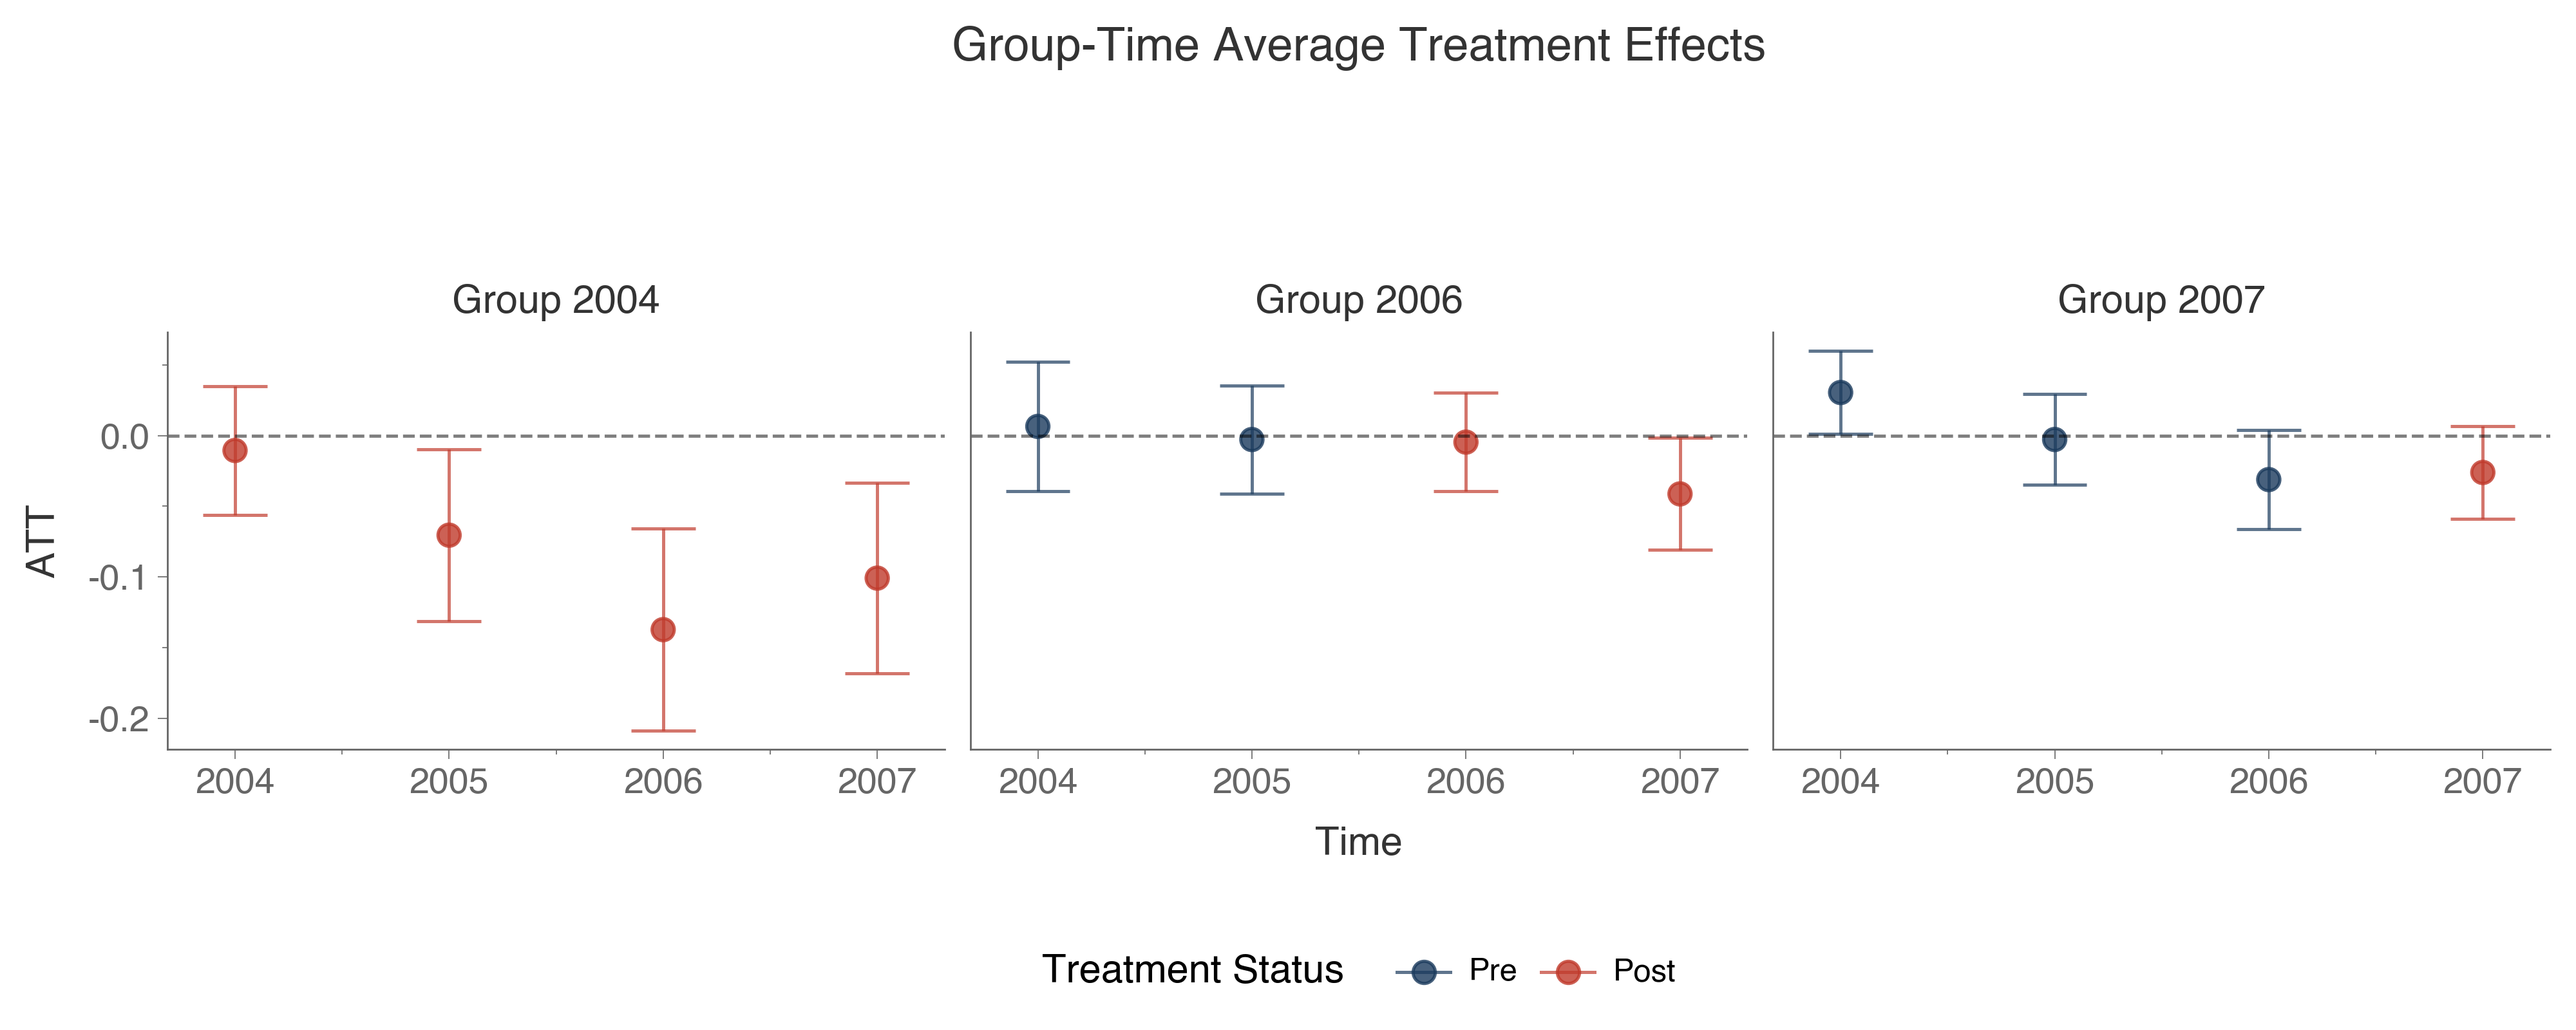
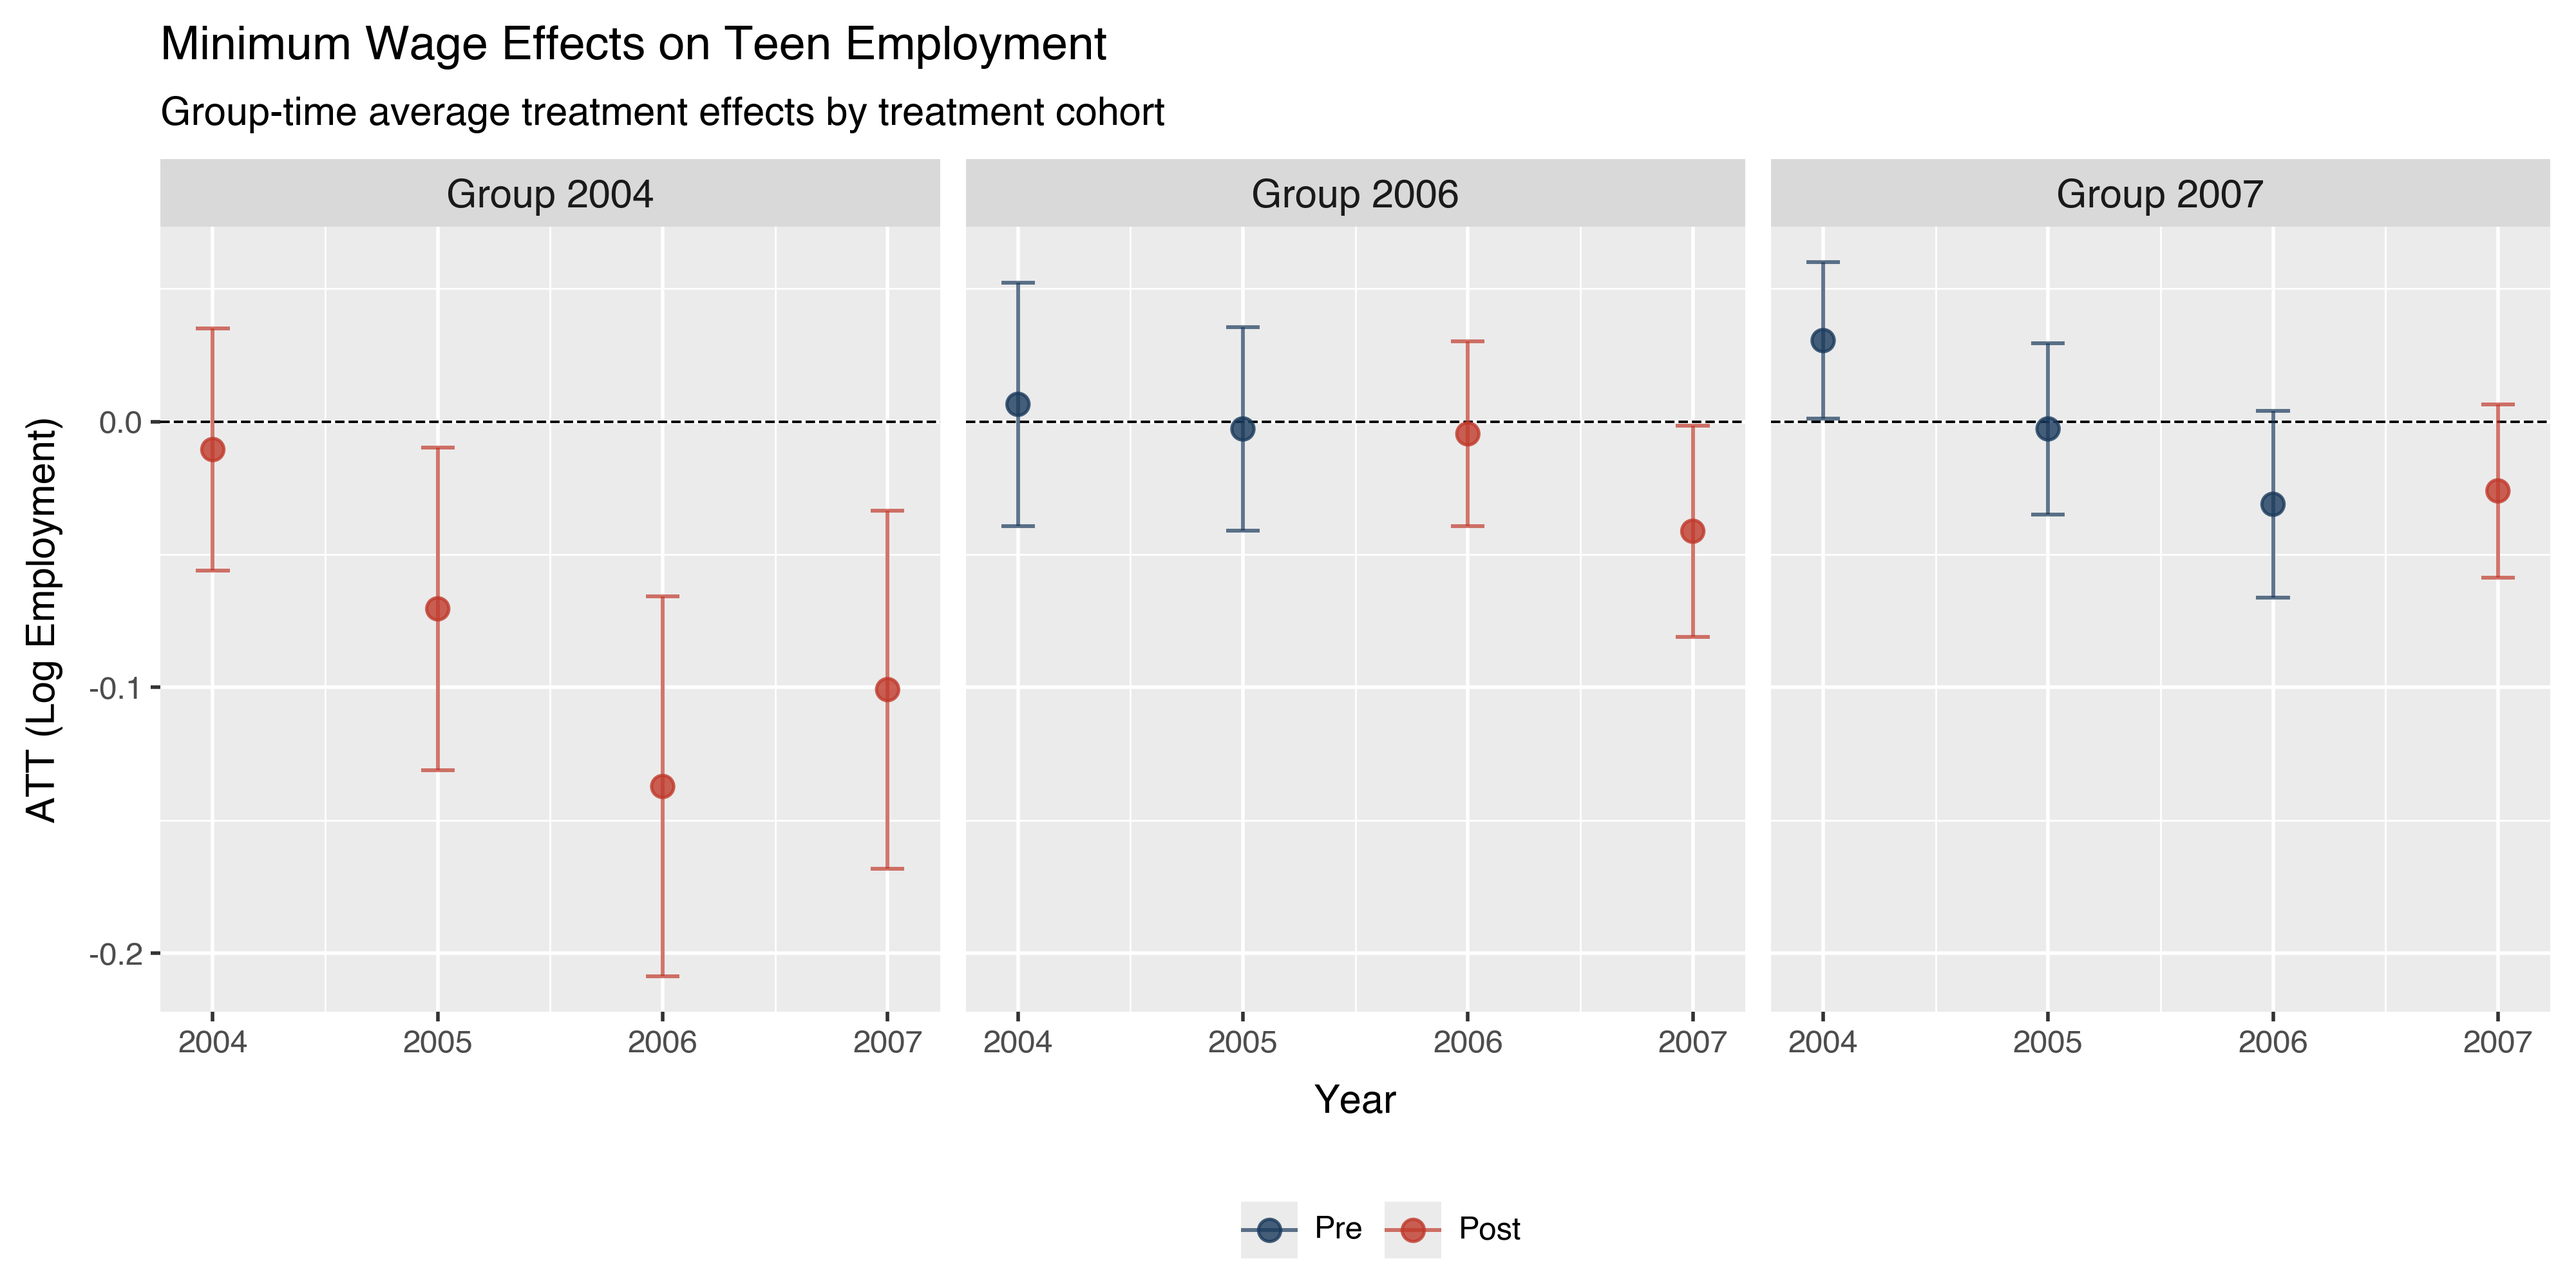
DOC: update images

diff --git a/README.md b/README.md
@@ -1,5 +1,5 @@
-<img src="https://raw.githubusercontent.com/jordandeklerk/moderndid/main/docs/source/_static/moderndid-light.png#gh-light-mode-only" width="250" align="left" alt="moderndid logo"></img>
-<img src="https://raw.githubusercontent.com/jordandeklerk/moderndid/main/docs/source/_static/moderndid-dark.png#gh-dark-mode-only" width="250" align="left" alt="moderndid logo"></img>
+<img src="https://raw.githubusercontent.com/jordandeklerk/moderndid/readme/docs/source/_static/moderndid-light.png#gh-light-mode-only" width="250" align="left" alt="moderndid logo"></img>
+<img src="https://raw.githubusercontent.com/jordandeklerk/moderndid/readme/docs/source/_static/moderndid-dark.png#gh-dark-mode-only" width="250" align="left" alt="moderndid logo"></img>
 
 [![License](https://img.shields.io/badge/License-MIT-green.svg)](https://opensource.org/license/mit)
 [![PyPI -Version](https://img.shields.io/pypi/v/moderndid.svg)](https://pypi.org/project/moderndid/)
@@ -271,7 +271,7 @@ We can plot these results using the `plot_gt()` functionality:
 did.plot_gt(attgt_result)
 ```
 
-<img src="https://raw.githubusercontent.com/jordandeklerk/moderndid/main/docs/source/_static/att.png" alt="ATT plot">
+<img src="https://raw.githubusercontent.com/jordandeklerk/moderndid/readme/docs/source/_static/att.png" alt="ATT plot">
 
 While group-time effects are useful, they can be difficult to summarize when there are many groups and time periods. The `aggte` function aggregates these into more interpretable summaries. Setting `type="dynamic"` produces an event study that shows how effects evolve relative to treatment timing:
 
@@ -333,13 +333,9 @@ print(event_study)
 
 Event time 0 is the period of first treatment, e.g., the on-impact effect, negative event times are pre-treatment periods, and positive event times are post-treatment periods. Pre-treatment effects near zero lean in support of the parallel trends assumption (but do not confirm it), while post-treatment effects reveal how the treatment impact evolves over time. The overall ATT at the top provides a single summary measure across all post-treatment periods.
 
-We can also use built-in plotting functionality to plot the event study results with `plot_event_study()`:
+ModernDiD includes built-in plot functions ([`plot_event_study`](https://moderndid.readthedocs.io/en/latest/api/generated/plotting/moderndid.plots.plot_event_study.html), [`plot_gt`](https://moderndid.readthedocs.io/en/latest/api/generated/plotting/moderndid.plots.plot_gt.html), [`plot_agg`](https://moderndid.readthedocs.io/en/latest/api/generated/plotting/moderndid.plots.plot_agg.html), and more) as well as data converters that make it easy to build custom figures with [plotnine](https://plotnine.org/). The figure below overlays the Callaway and Sant'Anna (2021) estimates from above against a standard TWFE event study estimated with [pyfixest](https://github.com/py-econometrics/pyfixest), illustrating how heterogeneity-robust estimators differ from conventional two-way fixed effects. See the [Plotting Guide](https://moderndid.readthedocs.io/en/latest/user_guide/plotting.html) for the full code and more examples.
 
-```python
-did.plot_event_study(event_study)
-```
-
-<img src="https://raw.githubusercontent.com/jordandeklerk/moderndid/main/docs/source/_static/event_study.png" alt="Event study plot">
+<img src="https://raw.githubusercontent.com/jordandeklerk/moderndid/readme/docs/source/_static/event_study.png" alt="CS (2021) vs TWFE event study comparison">
 
 ## Planned Development
 

diff --git a/docs/source/user_guide/plotting.rst b/docs/source/user_guide/plotting.rst
@@ -98,14 +98,63 @@ estimates. This function also accepts triple DiD results from
 
     did.plot_gt(result, ncol=3)
 
-.. image:: /_static/images/plot_guide_gt.png
-   :alt: Group-time treatment effects
-   :width: 100%
-
 The ``ncol`` parameter controls the number of columns in the facet grid.
 Setting ``ncol=3`` arranges the three cohort panels side by side, while the
 default ``ncol=1`` stacks them vertically. The ``title`` parameter controls
 the prefix in each panel label (default ``"Group"``).
+
+Since ``plot_gt`` returns a plotnine ``ggplot`` object, you can restyle it
+with the full grammar of graphics. The version below applies
+``theme_gray``, adds a title and subtitle, relabels the axes, and switches
+the reference line to dashed.
+
+.. code-block:: python
+
+    from moderndid.plots import mpresult_to_polars, COLORS
+    from plotnine import (
+        aes, element_text, facet_wrap, geom_errorbar, geom_hline,
+        geom_point, ggplot, labs, scale_color_manual,
+        scale_x_continuous, theme, theme_gray,
+    )
+
+    df = mpresult_to_polars(result)
+    df = df.with_columns([df["group"].cast(int).cast(str).alias("group_label")])
+    x_breaks = sorted(df["time"].unique().to_list())
+
+    p = (
+        ggplot(df, aes(x="time", y="att", color="treatment_status"))
+        + geom_hline(yintercept=0, linetype="dashed", color="black", size=0.4)
+        + geom_errorbar(
+            aes(ymin="ci_lower", ymax="ci_upper"),
+            width=0.15, size=0.6, alpha=0.7,
+        )
+        + geom_point(size=3, alpha=0.8)
+        + scale_color_manual(
+            values={"Pre": COLORS["pre_treatment"], "Post": COLORS["post_treatment"]},
+            limits=["Pre", "Post"],
+            name="",
+        )
+        + scale_x_continuous(breaks=x_breaks)
+        + facet_wrap(
+            "~group_label", ncol=3,
+            labeller=lambda x: f"Group {x}", scales="free_x",
+        )
+        + labs(
+            x="Year",
+            y="ATT (Log Employment)",
+            title="Minimum Wage Effects on Teen Employment",
+            subtitle="Group-time average treatment effects by treatment cohort",
+        )
+        + theme_gray()
+        + theme(
+            legend_position="bottom",
+            strip_text=element_text(size=11, weight="bold"),
+        )
+    )
+
+.. image:: /_static/images/plot_guide_gt.png
+   :alt: Group-time treatment effects
+   :width: 100%
 
 
 Group and calendar aggregations
